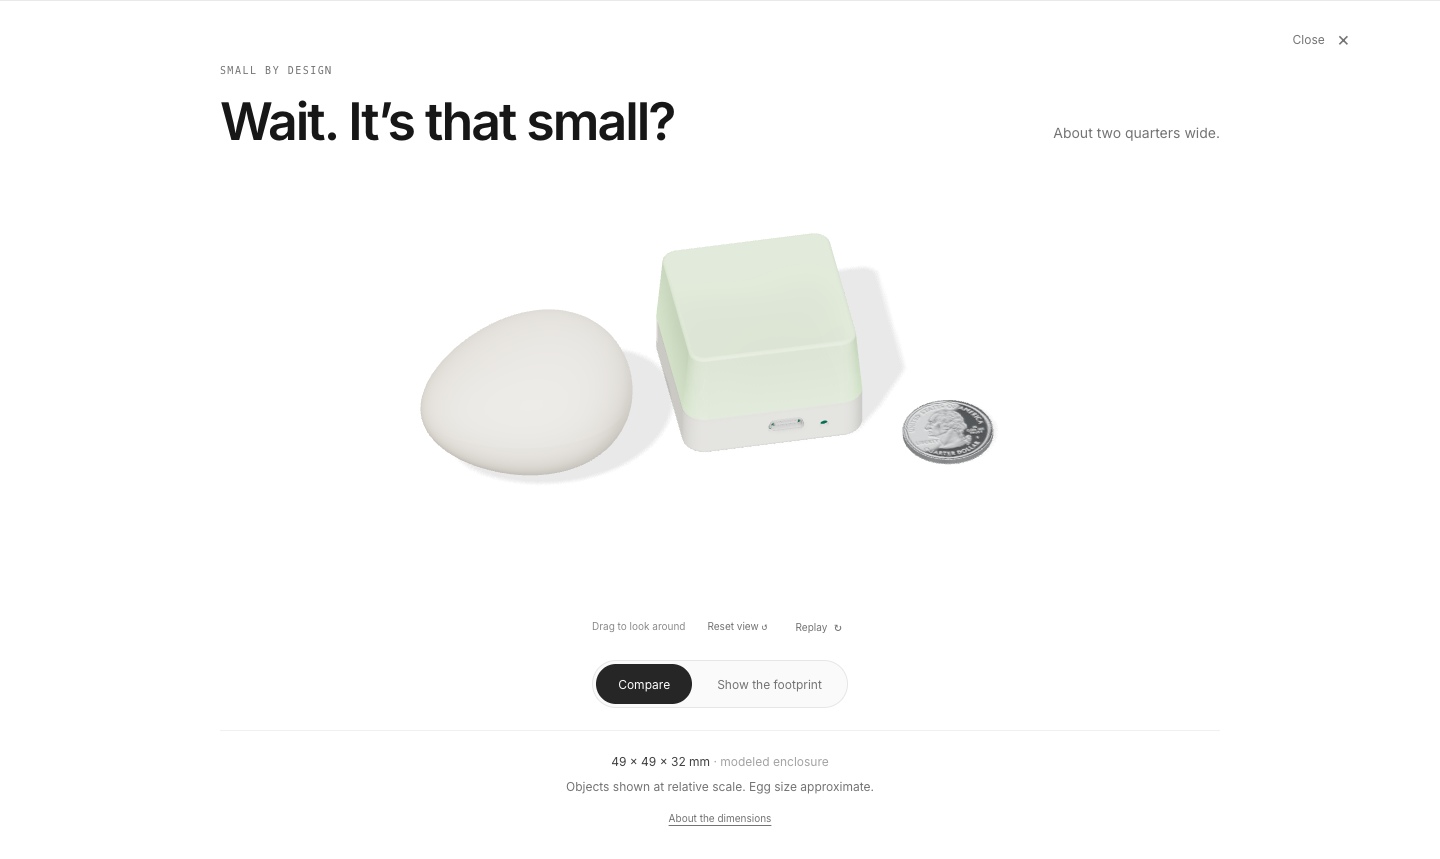
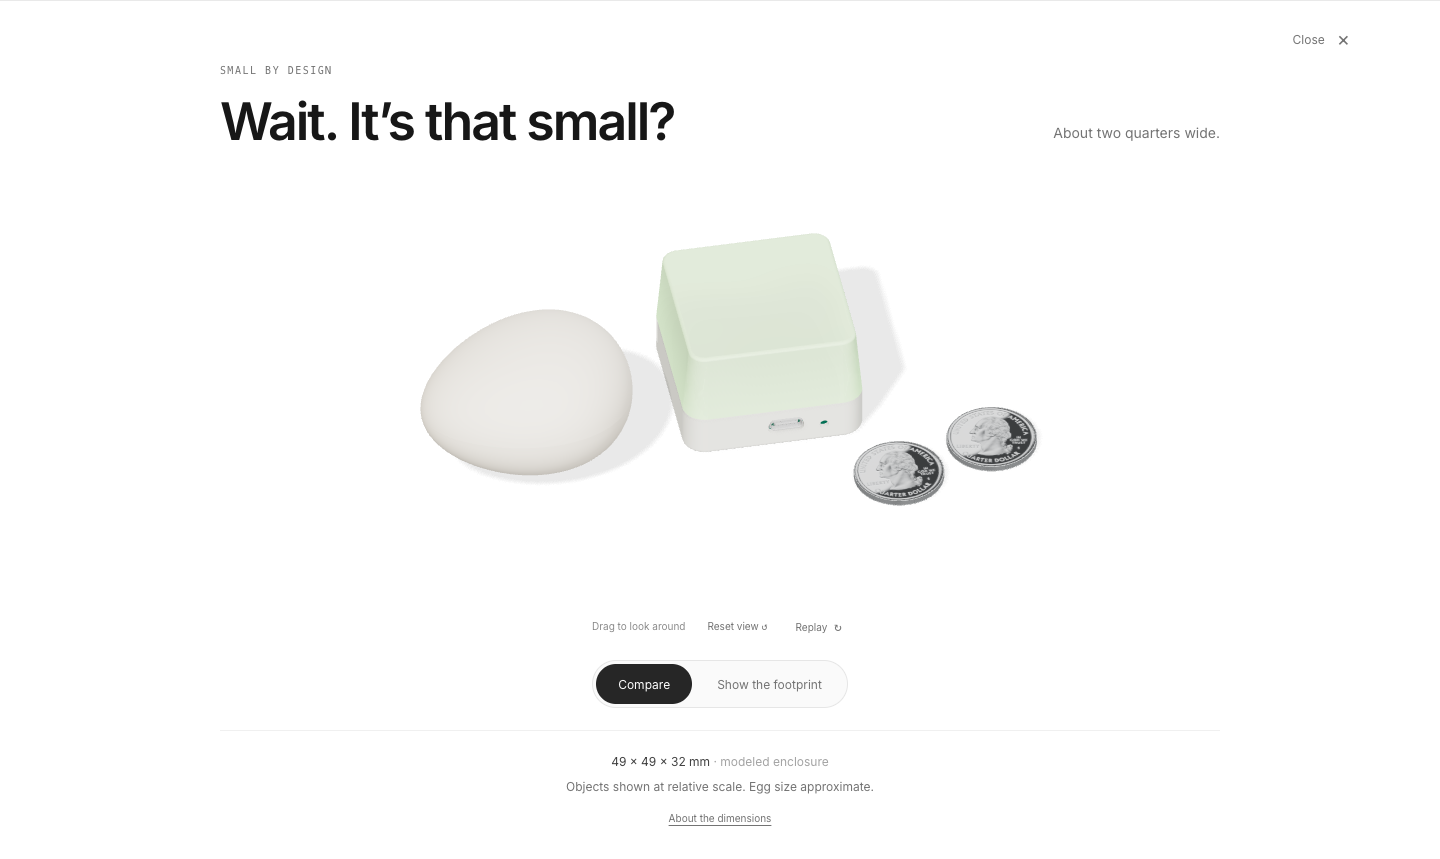
Keep both quarters visible and sharpen coin rendering for Retina

Changed region(s): [[0.5938, 0.454, 0.7188, 0.6054]]

diff --git a/src/scale/scene.js b/src/scale/scene.js
@@ -17,7 +17,7 @@ export async function createComparison(host,state){
  let resizeObserver,observer,wake=()=>{};
  const visibility=()=>{if(document.hidden||!visible){if(!pausedAt)pausedAt=performance.now();cancelAnimationFrame(raf);raf=0}else{if(pausedAt){const elapsed=performance.now()-pausedAt;revealStart+=elapsed;viewStart+=elapsed;pausedAt=0}wake()}};
  try{
- const [gltf,coin]=await Promise.all([new GLTFLoader().loadAsync('/showcase/aircube-base.glb'),makeQuarter()]);
+ const [gltf,coin]=await Promise.all([new GLTFLoader().loadAsync('/showcase/aircube-base.glb'),makeQuarter(Math.min(C.quality.coinAnisotropy,renderer.capabilities.getMaxAnisotropy()))]);
  const product=gltf.scene;scene.add(product);product.traverse(o=>{if(o.isMesh)o.castShadow=o.receiveShadow=true});
  const bounds=new T.Box3();for(const name of ['housing','diffuser'])bounds.union(new T.Box3().setFromObject(product.getObjectByName(name)));
  const size=bounds.getSize(new T.Vector3());if(Math.abs(size.x-pd.width)>.05||Math.abs(size.y-pd.height)>.05||Math.abs(size.z-pd.depth)>.05)throw Error('Enclosure bounds differ from configured dimensions');
@@ -30,14 +30,14 @@ export async function createComparison(host,state){
  const ground=new T.Mesh(new T.PlaneGeometry(1000,1000),new T.ShadowMaterial({opacity:.085}));ground.rotation.x=-Math.PI/2;ground.position.y=-.02;ground.receiveShadow=true;scene.add(ground);
  const linePoints=[[-24.5,.08,-32],[24.5,.08,-32],[-24.5,.08,-34],[-24.5,.08,-30],[24.5,.08,-34],[24.5,.08,-30],[32,.08,-24.5],[32,.08,24.5],[30,.08,-24.5],[34,.08,-24.5],[30,.08,24.5],[34,.08,24.5]];
  const lines=new T.LineSegments(new T.BufferGeometry().setFromPoints(linePoints.map(([x,y,z])=>new T.Vector3(x/49*pd.width,y,z/49*pd.depth))),new T.LineBasicMaterial({color:'#737373',transparent:true}));scene.add(lines);
- host.append(renderer.domElement);const canvas=renderer.domElement;canvas.tabIndex=0;canvas.setAttribute('aria-keyshortcuts','ArrowLeft ArrowRight ArrowUp ArrowDown');renderer.domElement.setAttribute('role','img');renderer.domElement.setAttribute('aria-label','Noware enclosure, chicken egg and US quarter shown together at a consistent physical scale. In Compare view, drag or use arrow keys to rotate the shared view.');
+ host.append(renderer.domElement);const canvas=renderer.domElement;canvas.tabIndex=0;canvas.setAttribute('aria-keyshortcuts','ArrowLeft ArrowRight ArrowUp ArrowDown');renderer.domElement.setAttribute('role','img');renderer.domElement.setAttribute('aria-label','Noware enclosure, chicken egg and two US quarters shown together at a consistent physical scale. In Compare view, drag or use arrow keys to rotate the shared view.');
  function render(now){raf=0;if(dead||!visible||document.hidden)return;
  const rt=state.reduced||state.mobile?1:Math.min(1,(now-revealStart)/C.timing.reveal),r=ease(rt),v=state.reduced?1:ease((now-viewStart)/C.timing.view);view=T.MathUtils.lerp(from,to,v);
  const w=host.clientWidth,h=host.clientHeight,aspect=w/h,vertical=T.MathUtils.lerp(C.camera.closeSpan,Math.max((state.mobile?C.camera.mobileSpan:C.camera.span)/aspect,state.mobile?150:118),r);camera.left=-vertical*aspect/2;camera.right=vertical*aspect/2;camera.top=vertical/2;camera.bottom=-vertical/2;
  const pose=comparisonCameraPose(view,r,state.rotation);camera.position.copy(pose.position);camera.quaternion.copy(pose.orientation);camera.updateProjectionMatrix();
  egg.rotation.set(0,.12*(1-view),0);egg.rotation.x=(1-r)*.3;egg.position.set(C.positions.egg[0]-(1-r)*20-view*3,0,C.positions.egg[2]);egg.updateMatrixWorld();egg.position.y=-new T.Box3().setFromObject(egg).min.y;
  const settle=ease((rt-.35)/.65),tilt=(1-settle)*Math.PI/2+Math.sin(settle*Math.PI*6)*.08*Math.sin(settle*Math.PI);coin.rotation.set(tilt,(1-settle)*Math.PI*2,0);coin.position.set(T.MathUtils.lerp(C.positions.coin[0]+(1-settle)*55,-qd.diameter/2,view),coinSupport(tilt,qd.diameter/2,qd.thickness),T.MathUtils.lerp(C.positions.coin[2],C.positions.footprintZ,view));
- coin2.visible=view>.001;coin2.position.set(T.MathUtils.lerp(110,qd.diameter/2,view),qd.thickness/2,C.positions.footprintZ);
+ coin2.position.set(T.MathUtils.lerp(C.positions.secondCoin[0]+(1-settle)*55,qd.diameter/2,view),qd.thickness/2,T.MathUtils.lerp(C.positions.secondCoin[2],C.positions.footprintZ,view));coin2.rotation.y=-.18*(1-view);
  lines.material.opacity=ease((view-.65)/.35);lines.visible=view>.65;
  camera.updateMatrixWorld(true);scene.updateMatrixWorld(true);for(const label of host.parentElement.querySelectorAll('[data-scale-anchor]')){const anchors={width:[0,0,-39],depth:[40,0,0],coins:[0,0,64]};const p=new T.Vector3(...anchors[label.dataset.scaleAnchor]).project(camera);label.style.left=`${(p.x*.5+.5)*w}px`;label.style.top=`${(-p.y*.5+.5)*h}px`;label.style.opacity=lines.material.opacity;label.hidden=view<.65}
  renderer.render(scene,camera);host.dataset.rotation=state.rotation.yaw.toFixed(3)+','+state.rotation.pitch.toFixed(3);canvas.dataset.draggable=String(to===0&&view<.001);host.dataset.ready='true';host.dataset.view=view.toFixed(3);host.dataset.reveal=rt.toFixed(3);host.dataset.drawCalls=renderer.info.render.calls;host.parentElement.classList.add('is-ready');

diff --git a/src/scale/index.js b/src/scale/index.js
@@ -4,7 +4,7 @@ export function mountScaleComparison(){
  const d=C.dimensions.product;
  const section=document.createElement('section');section.className='scale-story';section.id='size';section.hidden=true;section.setAttribute('aria-labelledby','scale-title');
  section.innerHTML=`<button type="button" class="scale-close" aria-label="Close size comparison">Close <span aria-hidden="true">×</span></button><div class="scale-heading"><span class="scale-eyebrow">SMALL BY DESIGN</span><h2 id="scale-title" tabindex="-1">Wait. It’s that small?</h2><p>About two quarters wide.</p></div>
- <div class="scale-stage"><picture><source media="(max-width:600px)" srcset="/showcase/scale/compare-mobile.webp"><img class="scale-poster" src="/showcase/scale/compare.webp" alt="Noware beside a chicken egg and a U.S. quarter, shown at relative scale." width="1440" height="600"></picture><div class="scale-canvas"></div><div class="scale-measure" data-scale-anchor="width" hidden>${d.width} mm</div><div class="scale-measure" data-scale-anchor="depth" hidden>${d.depth} mm</div><div class="scale-measure scale-coin-label" data-scale-anchor="coins" hidden>${(C.dimensions.quarter.diameter*2).toFixed(2)} mm · two quarters</div></div>
+ <div class="scale-stage"><picture><source media="(max-width:600px)" srcset="/showcase/scale/compare-mobile.webp"><img class="scale-poster" src="/showcase/scale/compare.webp" alt="Noware beside a chicken egg and two U.S. quarters, shown at relative scale." width="1440" height="600"></picture><div class="scale-canvas"></div><div class="scale-measure" data-scale-anchor="width" hidden>${d.width} mm</div><div class="scale-measure" data-scale-anchor="depth" hidden>${d.depth} mm</div><div class="scale-measure scale-coin-label" data-scale-anchor="coins" hidden>${(C.dimensions.quarter.diameter*2).toFixed(2)} mm · two quarters</div></div>
  <div class="scale-view-tools"><span class="scale-drag-hint" title="Drag, or focus the scene and use arrow keys">Drag to look around</span><button type="button" class="scale-reset">Reset view ↺</button><button type="button" class="scale-replay" aria-label="Replay the size comparison reveal">Replay <span aria-hidden="true">↻</span></button></div>
  <div class="scale-toolbar"><div class="scale-modes" role="group" aria-label="Size comparison view"><button type="button" data-mode="compare" aria-pressed="true">Compare</button><button type="button" data-mode="footprint" aria-pressed="false">Show the footprint</button></div></div>
  <div class="scale-caption"><p>${d.width} × ${d.depth} × ${d.height} mm <span>· modeled enclosure</span></p><p>Objects shown at relative scale. Egg size approximate.</p><details><summary>About the dimensions</summary><p>The engineering enclosure shown measures 49 × 49 × 32 mm. The retail product lists 49 × 49 × 36 mm. This comparison preserves the engineering model’s proportions. The egg is an illustrative 58 × 44 mm; each U.S. quarter is 24.26 mm across and 1.75 mm thick.</p><p>Quarter-dollar coin image from the United States Mint.</p></details><p class="scale-status" role="status"></p></div>`;
@@ -16,7 +16,7 @@ export function mountScaleComparison(){
  section.querySelector('.scale-close').addEventListener('click',()=>setOpen(false));
  section.addEventListener('keydown',e=>{if(e.key==='Escape'){e.preventDefault();setOpen(false)}});
  const buttons=[...section.querySelectorAll('[data-mode]')],poster=section.querySelector('.scale-poster'),source=section.querySelector('source');
- function update(mode){state.mode=mode;section.querySelector('.scale-drag-hint').textContent=mode==='footprint'?'Overhead view · fixed to scale':'Drag to look around';section.querySelector('.scale-reset').disabled=mode==='footprint';buttons.forEach(b=>b.setAttribute('aria-pressed',String(b.dataset.mode===mode)));poster.src=`/showcase/scale/${mode}.webp`;source.srcset=`/showcase/scale/${mode}-mobile.webp`;poster.alt=mode==='footprint'?'Overhead comparison: the 49 mm enclosure above two quarters spanning 48.52 mm, with an egg alongside.':'Noware beside a chicken egg and a U.S. quarter, shown at relative scale.';scene?.setMode(mode)}
+ function update(mode){state.mode=mode;section.querySelector('.scale-drag-hint').textContent=mode==='footprint'?'Overhead view · fixed to scale':'Drag to look around';section.querySelector('.scale-reset').disabled=mode==='footprint';buttons.forEach(b=>b.setAttribute('aria-pressed',String(b.dataset.mode===mode)));poster.src=`/showcase/scale/${mode}.webp`;source.srcset=`/showcase/scale/${mode}-mobile.webp`;poster.alt=mode==='footprint'?'Overhead comparison: the 49 mm enclosure above two quarters spanning 48.52 mm, with an egg alongside.':'Noware beside a chicken egg and two U.S. quarters, shown at relative scale.';scene?.setMode(mode)}
  section.querySelector('.scale-reset').addEventListener('click',()=>scene?.reset());
  buttons.forEach(b=>b.addEventListener('click',()=>update(b.dataset.mode)));
  section.querySelector('.scale-replay').addEventListener('click',()=>{update('compare');scene?.replay()});

diff --git a/src/scale/assets.js b/src/scale/assets.js
@@ -10,20 +10,24 @@ export function makeEgg(){
  const texture=new T.CanvasTexture(canvas);texture.wrapS=texture.wrapT=T.RepeatWrapping;texture.repeat.set(3,2);
  const egg=new T.Mesh(geometry,new T.MeshStandardMaterial({color:'#f2e9db',roughness:.83,bumpMap:texture,bumpScale:.045}));egg.castShadow=egg.receiveShadow=true;egg.name='Approximate chicken egg';return egg;
 }
-export async function makeQuarter(){
+export async function makeQuarter(anisotropy=1){
  const {diameter,thickness,reeds}=C.dimensions.quarter,r=diameter/2;
  const group=new T.Group();group.name='US quarter — 24.26 × 1.75 mm';
  const metal=new T.MeshStandardMaterial({color:'#b8bbbd',metalness:.87,roughness:.32});
  const body=new T.Mesh(new T.CylinderGeometry(r-.09,r-.09,thickness-.1,128),metal);group.add(body);
- const image=await new T.TextureLoader().loadAsync('/showcase/scale/quarter.png');image.colorSpace=T.SRGBColorSpace;
+ const image=await new T.TextureLoader().loadAsync('/showcase/scale/quarter.png');image.colorSpace=T.SRGBColorSpace;image.anisotropy=anisotropy;
  // Compress the photograph's baked mirror-black reflections into silver tones.
  // Keep the original grayscale as shallow relief so studio lights reveal the engraving.
  const silverCanvas=document.createElement('canvas');silverCanvas.width=silverCanvas.height=1024;
  const silverContext=silverCanvas.getContext('2d');silverContext.drawImage(image.image,0,0,1024,1024);
  const pixels=silverContext.getImageData(0,0,1024,1024);
- for(let i=0;i<pixels.data.length;i+=4){const luminance=(pixels.data[i]*.2126+pixels.data[i+1]*.7152+pixels.data[i+2]*.0722)/255;const tone=78+Math.pow(luminance,.8)*130;pixels.data[i]=tone;pixels.data[i+1]=tone+2;pixels.data[i+2]=tone+4;}
- silverContext.putImageData(pixels,0,0);const silver=new T.CanvasTexture(silverCanvas);silver.colorSpace=T.SRGBColorSpace;
- const face=new T.Mesh(new T.CircleGeometry(r-.26,128),new T.MeshStandardMaterial({map:silver,metalness:.8,roughness:.37,envMapIntensity:.65,bumpMap:image,bumpScale:.26}));face.rotation.x=-Math.PI/2;face.position.y=thickness/2-.025;group.add(face);
+ // A light unsharp mask retains lettering edges through texture minification.
+ const detailCanvas=document.createElement('canvas');detailCanvas.width=detailCanvas.height=1024;
+ const detailContext=detailCanvas.getContext('2d');detailContext.filter='blur(1px)';detailContext.drawImage(silverCanvas,0,0);
+ const soft=detailContext.getImageData(0,0,1024,1024).data;
+ for(let i=0;i<pixels.data.length;i+=4){const original=(pixels.data[i]*.2126+pixels.data[i+1]*.7152+pixels.data[i+2]*.0722)/255;const blurred=(soft[i]*.2126+soft[i+1]*.7152+soft[i+2]*.0722)/255;const luminance=Math.max(0,Math.min(1,original+.6*(original-blurred)));const tone=52+Math.pow(luminance,.9)*162;pixels.data[i]=tone;pixels.data[i+1]=tone+2;pixels.data[i+2]=tone+4;}
+ silverContext.putImageData(pixels,0,0);const silver=new T.CanvasTexture(silverCanvas);silver.colorSpace=T.SRGBColorSpace;silver.anisotropy=anisotropy;
+ const face=new T.Mesh(new T.CircleGeometry(r-.26,128),new T.MeshStandardMaterial({map:silver,metalness:.6,roughness:.4,envMapIntensity:.45,bumpMap:image,bumpScale:.055}));face.rotation.x=-Math.PI/2;face.position.y=thickness/2-.025;group.add(face);
  for(const y of [-1,1]){const rim=new T.Mesh(new T.TorusGeometry(r-.13,.13,6,128),metal);rim.rotation.x=Math.PI/2;rim.position.y=y*(thickness/2-.13);group.add(rim)}
  const ridges=new T.InstancedMesh(new T.BoxGeometry(.12,thickness-.24,.13),metal,reeds),dummy=new T.Object3D();
  for(let i=0;i<reeds;i++){const a=i/reeds*Math.PI*2;dummy.position.set((r-.065)*Math.sin(a),0,(r-.065)*Math.cos(a));dummy.rotation.y=a;dummy.updateMatrix();ridges.setMatrixAt(i,dummy.matrix)}group.add(ridges);

diff --git a/src/scale/config.js b/src/scale/config.js
@@ -3,9 +3,9 @@ export const scaleConfig = {
  dimensions: {product: {width:49,depth:49,height:32,retailHeight:36},quarter:{diameter:24.26,thickness:1.75,reeds:119},egg:{length:58,diameter:44}},
  timing:{reveal:2600,view:1000},
  camera:{compare:[65,130,190],overhead:[0,220,0],target:[-13,13,12],span:174,mobileSpan:208,closeSpan:62},
- positions:{egg:[-67,0,17],coin:[46,0,29],footprintZ:44},
+ positions:{egg:[-67,0,17],coin:[30,0,43],secondCoin:[57,0,34],footprintZ:44},
  interaction:{yawLimit:.6,pitchLimit:.18,dragSpeed:.005,keyStep:.08},
- quality:{pixelRatio:1.6,shadowSize:1024},
+ quality:{pixelRatio:2,shadowSize:1024,coinAnisotropy:8},
 };
 export const ease=t=>{t=Math.max(0,Math.min(1,t));return t*t*(3-2*t)};
 export const coinSupport=(tilt,radius=12.13,thickness=1.75)=>Math.abs(Math.sin(tilt))*radius+Math.abs(Math.cos(tilt))*thickness/2;

diff --git a/tests/scale.test.js b/tests/scale.test.js
@@ -33,3 +33,13 @@ test('footprint camera is exactly overhead with a stable north direction',()=>{
  assert.ok(forward.distanceTo(new T.Vector3(0,-1,0))<1e-10);
  assert.ok(up.distanceTo(new T.Vector3(0,0,-1))<1e-10);
 });
+
+test('both quarters remain separate along the compare-to-footprint path',()=>{
+ const d=C.dimensions.quarter.diameter;
+ for(let i=0;i<=100;i++){
+  const t=i/100;
+  const x1=T.MathUtils.lerp(C.positions.coin[0],-d/2,t),z1=T.MathUtils.lerp(C.positions.coin[2],C.positions.footprintZ,t);
+  const x2=T.MathUtils.lerp(C.positions.secondCoin[0],d/2,t),z2=T.MathUtils.lerp(C.positions.secondCoin[2],C.positions.footprintZ,t);
+  assert.ok(Math.hypot(x2-x1,z2-z1)>=d-1e-10,'Coin edges must not intersect');
+ }
+});

diff --git a/scripts/scale/HANDOFF.md b/scripts/scale/HANDOFF.md
@@ -24,3 +24,8 @@ Compare now supports bounded camera orbit by mouse drag, horizontal touch swipe,
 
 ## Camera endpoint correction
 `src/scale/camera.js` interpolates explicit camera quaternions, avoiding world-up lookAt instability at the overhead pole. The endpoint is now mathematically vertical. Regression tests cover both directions and the full drag limits; `node scripts/scale/transition.mjs` captures late animation positions and checks projected-label continuity. The quarter's silver-tone remapping and shallow relief settings are in `src/scale/assets.js`.
+
+## Persistent references and coin sharpness
+Both quarters now stay in the scene in both modes. Compare places them slightly staggered, and Footprint slides them into the measured 48.52 mm row; neither coin is hidden during the transition. Their paths keep their edges separate. Position tuning is in `positions.coin` and `positions.secondCoin`.
+
+Quarter faces use a restrained unsharp mask, stronger tonal separation and a much shallower bump to avoid muddy lettering. Anisotropic filtering keeps angled faces legible. `quality.pixelRatio` now allows native 2× Retina rendering; still frames remain on demand. The capture script uses a 2× device scale so the regenerated fallback posters retain the same detail.
